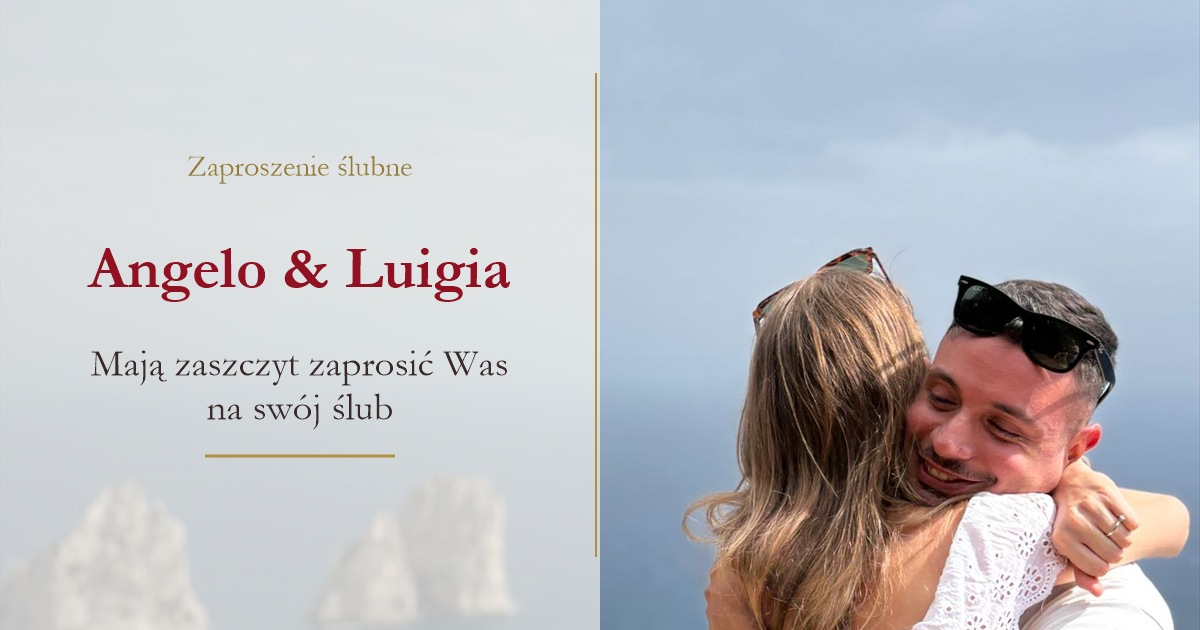
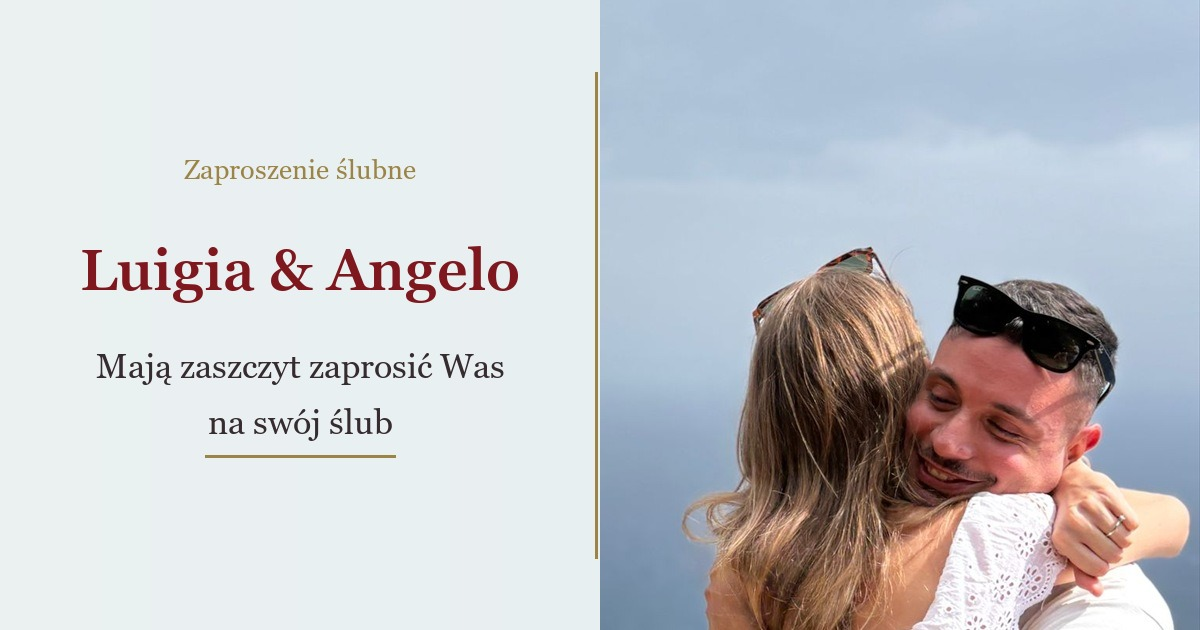
Inverti ordine nomi sposi invito polacco

Changed region(s): [[0.0, 0.5429, 0.5242, 1.0], [0.0617, 0.3921, 0.4317, 0.4825], [0.1542, 0.2413, 0.3392, 0.3016]]

diff --git a/src/data/event.js b/src/data/event.js
@@ -1,9 +1,9 @@
 export const event = {
   meta: {
-    pageTitle: "Zaproszenie ślubne Angelo i Luigia",
-    shareTitle: "Angelo & Luigia",
+    pageTitle: "Zaproszenie ślubne Luigia i Angelo",
+    shareTitle: "Luigia & Angelo",
     shareDescription: "Będzie nam bardzo miło dzielić z Wami dzień naszego ślubu.",
-    shareImage: "https://invitoginapl.vercel.app/images/link-preview-polacco-whatsapp-large.jpg?v=20260712-2",
+    shareImage: "https://invitoginapl.vercel.app/images/link-preview-polacco-whatsapp-large.jpg?v=20260720",
     shareImageWidth: "1200",
     shareImageHeight: "630",
     shareImageType: "image/jpeg",
@@ -14,26 +14,26 @@ export const event = {
   },
 
   content: {
-    title: "Angelo & Luigia",
+    title: "Luigia & Angelo",
     subtitle: "Mają zaszczyt zaprosić Was na swój ślub",
     description: "",
     envelope: {
       title: "Mamy dla Ciebie zaproszenie",
       subtitle: "",
       buttonLabel: "Otwórz zaproszenie",
-      seal: "A & L",
+      seal: "L & A",
     },
     actionStripLabel: "Zdjęcia i prezent",
     date: "20 grudnia 2026",
     time: "Godz. 11:00",
     calendar: {
       buttonLabel: "Dodaj do kalendarza",
-      title: "Ślub Angelo i Luigii",
-      description: "Angelo i Luigia będą szczęśliwi, mogąc dzielić z Wami dzień swojego ślubu.",
+      title: "Ślub Luigii i Angelo",
+      description: "Luigia i Angelo będą szczęśliwi, mogąc dzielić z Wami dzień swojego ślubu.",
       location: "Chiesa Maria SS della Neve",
       start: "2026-12-20T11:00:00",
       end: "2026-12-20T22:00:00",
-      fileName: "slub-angelo-luigia.ics",
+      fileName: "slub-luigia-angelo.ics",
     },
     countdown: {
       label: "Zostało",
@@ -130,7 +130,7 @@ export const event = {
     inviteText: "Dla tych, którzy chcą podarować nam prezent",
     inviteLinkLabel: "Przejdź do strony z prezentem",
     holderLabel: "Odbiorca",
-    holder: "De Feo Angelo De Vita Luigia",
+    holder: "De Vita Luigia De Feo Angelo",
     ibanLabel: "IBAN",
     iban: "IT62U0538715100000004502727",
     copyLabel: "Kopiuj IBAN",
@@ -180,7 +180,7 @@ export const event = {
     errorMessage: "Non siamo riusciti a caricare la foto. Riprova tra poco.",
     cameraErrorMessage: "Non siamo riusciti ad aprire la fotocamera. Controlla i permessi del browser e riprova.",
     preparingLabel: "Preparazione foto...",
-    frameTitle: "Angelo & Luigia oggi sposi",
+    frameTitle: "Luigia & Angelo oggi sposi",
     frameDate: "20 Dicembre 2026",
     backLabel: "Torna all'invito",
   },
